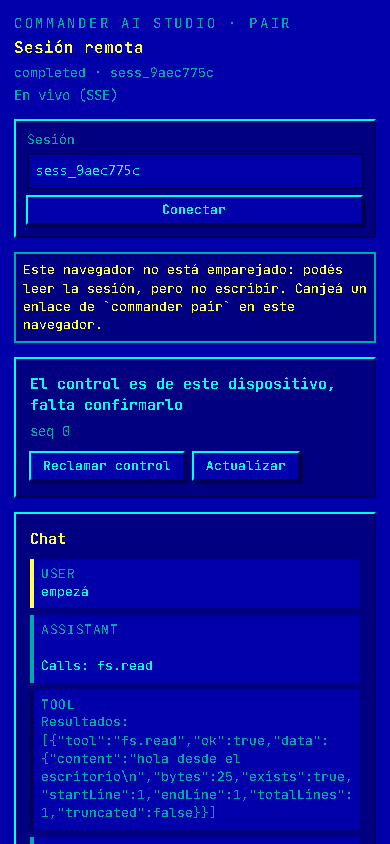
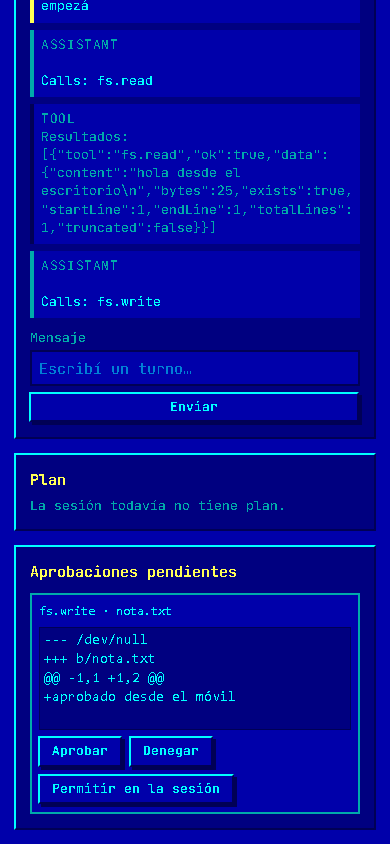
docs(parity): evidencia de C8 con la aprobacion del movil y F3 en 8/8
Se archiva la captura de esa corrida (10203 B, sha256 738c0b5d) y la seccion
14 del recibo G2 alinea F3 en 8/8 sin tocar la firma pendiente. El roadmap
marca F3-1 y F3-7 con la aprobacion que hace el movil.

diff --git a/docs/parity/receipts/G2-REVIEW-2026-11-25.md b/docs/parity/receipts/G2-REVIEW-2026-11-25.md
@@ -1,7 +1,7 @@
 # Revisión G2 — recorrido T1–T12 sobre el código del pair
 
 > **Fecha:** 2026-11-25 (preparación) · **2026-11-26** (recorrido completo)
-> **Estado:** recorrido completo, con **veredicto propuesto**; **sin firma**. G2 sigue **no iniciada** en el roadmap y F3 queda **parcial (6/8)**: las casillas que marca son las de §5, sostenidas por tests. Este recibo no firma la puerta y no habilita `--remote`.
+> **Estado:** recorrido completo, con **veredicto propuesto**; **sin firma**. G2 sigue **no iniciada** en el roadmap y F3 queda con sus **8/8** casillas: seis sostenidas por tests (§5) y las dos de C8 por la corrida de dos dispositivos y la vista a 390×844 de §14 (2026-11-27). Este recibo no firma la puerta y no habilita `--remote`.
 > **Insumo:** [modelo de amenazas remoto](../threat-model-remote.md) — §5 (T1–T12), §6 (controles y parámetros), §7 (invariantes → criterios de F3), §8 (los ocho criterios de G2) y §9 (decisiones abiertas).
 > **Qué cambió el 2026-11-26:** el pair ya existe en el árbol (§1.1 del modelo), así que las ocho preguntas de §8 se contestan con código y tests en vez de con «al implementar». Lo que sigue sin poder contestarse es la **mitad remota** —túnel, TLS, `--remote`—, que depende de G3 y de una segunda revisión cuando exista.
 
@@ -26,7 +26,7 @@
 - ⛔ **Humano** — no se puede firmar sin una decisión o una ejecución real (§8).
 - 🔒 **G3** — depende del proveedor de TLS/túnel (§9).
 
-**Alcance firmable hoy: loopback.** El canje exige `Origin` exacto contra una allowlist que hoy son los tres nombres de loopback con el puerto real más `CORS_ORIGINS` (`src/pair/pairOrigin.ts`, `pairAllowedOrigins`). Un teléfono en la LAN carga la página desde `http://192.168.x.x:<puerto>`, que no está en esa lista: el canje responde 403. Es coherente con el bloqueo deliberado de `--remote`, pero significa que la única topología ejercitable es **dos navegadores en la máquina host**, y que F3-1 (escritorio → móvil) no tiene evidencia real todavía.
+**Alcance firmable hoy: loopback.** El canje exige `Origin` exacto contra una allowlist que hoy son los tres nombres de loopback con el puerto real más `CORS_ORIGINS` (`src/pair/pairOrigin.ts`, `pairAllowedOrigins`). Un teléfono en la LAN carga la página desde `http://192.168.x.x:<puerto>`, que no está en esa lista: el canje responde 403. Es coherente con el bloqueo deliberado de `--remote`, pero significa que la única topología ejercitable es **dos navegadores en la máquina host**: así se mide F3-1 (escritorio → móvil) en §14, canjeando el enlace y aprobando desde el móvil, con el teléfono en la LAN fuera de alcance.
 
 ## 3. Recorrido T1–T12
 
@@ -109,7 +109,7 @@ La decisión vive en la sesión: `resolveApproval` aplica la pendiente una vez y
 
 `toState()` proyecta objetivo, `cwd`, modelo, modo, estado, turnos, pasos, plan, approvals pendientes, respuesta y propuestas: **no** incluye las claves de proveedor que la sesión guarda en memoria. El canje responde sólo `session.id/status/goal` y `device.id/createdAt/expiresAt`; ni el token del enlace ni el de la cookie vuelven al cliente. `redactApprovalValue` recorta claves y `Bearer` antes de mostrar o persistir una aprobación, y la redacción de F1 sigue en pie.
 
-**Falta:** un test que afirme que el token de pair y la cookie no aparecen en logs ni artifacts (criterio 8 de F3). Lo que el usuario mismo volcó en un turno sí viaja, y es el residual que el modelo ya declara.
+**Cubierto (C6):** `tests/pairAuditEndpoint.test.ts` afirma que ni el token del enlace ni la cookie aparecen en la auditoría, que es lo que el criterio 8 de F3 pedía. Lo que el usuario mismo volcó en un turno sí viaja, y es el residual que el modelo ya declara.
 
 ### T12 — Saturación · ⚠
 
@@ -153,9 +153,9 @@ Cada condición dice qué la cierra y qué evidencia la acredita.
 | C5 | Auditoría de emisión, canje y revocación de dispositivos, no sólo del lease; retención declarada | Implementación | Entrada presente al revocar un dispositivo que nunca reclamó el control |
 | C6 | Tests para lo que hoy es lectura: allowlist CORS, stream desde un peer no loopback sin cookie, y «el token no aparece en logs ni artifacts» | Implementación | Los tres casos en CI |
 | C7 | Aceptación escrita de los residuales A3 (QR capturado) y A5 (navegador comprometido), y decisión sobre cookie de 30 días, expulsión del más antiguo y tope de 200 entradas | Humano | Firma en este recibo |
-| C8 | F3-1 (escritorio → móvil) y F3-7 (390×844) siguen sin casilla hasta tener evidencia real de dos dispositivos y de la vista en ese ancho | Humano + ejecución | Recibo con los dos `sessionId`, `steps` comparados y la captura del ancho (§14) |
+| C8 | F3-1 (escritorio → móvil) y F3-7 (390×844) sólo se marcan con evidencia real de dos dispositivos y de la vista a ese ancho. **Cumplido el 2026-11-27:** el móvil emparejado aprueba el diff sobre `sess_cdeb8ccd`, 5 `steps` comparados y `scrollWidth ≤ 390` con la tarjeta a la vista (§14) | Humano + ejecución | Recibo con los dos `sessionId`, `steps` comparados y la captura del ancho (§14) |
 
-C1–C6 no cambian el veredicto: son las condiciones con las que el veredicto se sostiene. C7 es la firma. C8 es de F3, no de G2, y este recibo no la mueve.
+C1–C6 no cambian el veredicto: son las condiciones con las que el veredicto se sostiene. C7 es la firma. C8 es de F3, no de G2: la cierra la evidencia de §14, y marcarla no firma la puerta.
 
 ## 8. Lo que sólo puede firmar una revisión humana
 
@@ -182,12 +182,12 @@ Sin G3, todo lo anterior queda **sin verificar** por definición: el servidor no
 3. **Tamaño de evento:** §6.6 exige tope por evento; el código acota el body (20 MB), el texto del turno (20 000) y el buffer (1 000), no el frame que sale hacia cada cliente.
 4. **CORS sin test propio:** §6.3 pide allowlist sin comodín y `Vary: Origin`; se cumple, pero sólo hay lectura de código y la lista del pair reutiliza `CORS_ORIGINS`.
 5. **El pair sólo es usable desde loopback:** no es un defecto, es el bloqueo deliberado; conviene que F3 lo diga para que nadie lea «pair funciona» como «pair funciona desde el teléfono».
-6. **`ROADMAP.md` se actualizó con este recorrido:** F3 pasa a **parcial (6/8)** con las casillas de §5 y G2 sigue no iniciada. Quedan abiertas F3-1 y F3-7, que esperan la evidencia de C8; cerrar la fase y la puerta espera la firma de C7.
+6. **`ROADMAP.md` se actualizó con este recorrido:** F3 queda en **8/8**, con las casillas de §5 y con F3-1 y F3-7, que cerró la evidencia de C8 (§14, 2026-11-27). G2 sigue no iniciada y cerrar la fase y la puerta espera la firma de C7.
 
 ## 11. Lo que este recibo no es
 
 - **No es la firma:** propone un veredicto y lo deja explícitamente abierto.
-- **No cierra G2 ni F3:** G2 sigue no iniciada y F3 queda parcial; las casillas que el roadmap marca son las de §5 y ninguna cierra la fase.
+- **No cierra G2 ni F3:** G2 sigue no iniciada y F3, aunque ya tenga sus ocho casillas, no está cerrada: salen de §5 y de §14, y ninguna de las dos cosas cierra la fase.
 - **No probó LAN ni túnel:** no hay `--remote` y el canje rechaza el origen de un teléfono en la LAN; toda la mitad remota queda 🔒.
 - **No reemplaza los tests:** el recorrido cita las suites existentes; no las ejecutó como parte de este documento.
 - **«Leído» no es «probado»:** T3 y T11 se sostienen por lectura de código y ausencia de logger, y así quedan marcados.
@@ -221,24 +221,25 @@ Aplicado después del recorrido. Las secciones anteriores quedan como la foto de
 | C5 | `src/pair/pairAudit.ts`: JSONL con tope de 200 entradas para emisión, canje y baja, con el motivo del fallo y sin token ni cookie; `GET /api/pair/audit` se lee sólo desde loopback. | `tests/pairAuditEndpoint.test.ts` (las tres acciones, motivo `used`, baja inexistente y ausencia del token) |
 | C6 | Los tres tests que faltaban: allowlist de CORS, acceso al stream desde un peer que no es loopback y token fuera de auditoría y logs. | `tests/corsAllowlist.test.ts`, `tests/unit/pairStreamAccess.test.ts` y `tests/pairAuditEndpoint.test.ts` |
 
-Con esto F3 pasa de 4/8 a **6/8** (criterios 4 y 8); las casillas 1 y 7 siguen abiertas por C8, que no se puede inventar sin una corrida de dos dispositivos y una vista a 390×844. De las condiciones quedan C1, C2, C7 y C8, y G2 sigue **sin firma**: cerrar C3–C6 no sustituye la revisión humana.
+Con esto F3 sumó los criterios 4 y 8. Después, el 2026-11-27, la corrida de C8 y su captura cerraron F3-1 y F3-7 (§14) y F3 quedó en **8/8**. De las condiciones siguen abiertas C1, C2 y C7, y G2 sigue **sin firma**: ni las casillas ni C3–C6 sustituyen la revisión humana.
 
 ## 14. Evidencia de C8 · dos dispositivos y la vista a 390×844 (2026-11-27)
 
-Ejecutada después del cierre de C3–C6. Es la corrida que C8 pedía: dos dispositivos
-sobre la misma sesión y la vista a 390×844. **No mueve el veredicto ni marca
-casillas**: la firma de C7/C8 sigue siendo humana (§8), pero la evidencia ya existe
-y queda archivada en el repo.
+Ejecutada después del cierre de C3–C6 y regenerada el 2026-11-27 con la aprobación real: dos dispositivos
+sobre la misma sesión, el móvil aprobando el diff y la vista a 390×844 con la tarjeta a la
+vista. Las casillas F3-1 y F3-7 están marcadas en el ROADMAP con esta corrida; la firma
+de G2 (C7) sigue siendo humana y este recibo no la sustituye.
 
 | Dato | Valor |
 | --- | --- |
-| `sessionId` · escritorio (1280×800) | `sess_9aec775c` |
-| `sessionId` · móvil (390×844) | `sess_9aec775c` |
+| `sessionId` · escritorio (1280×800) | `sess_cdeb8ccd` |
+| `sessionId` · móvil (390×844) | `sess_cdeb8ccd` |
 | Igualdad de los dos | el spec exige que coincidan entre sí y con el del servidor (`expect(desktopId).toBe(mobileId)` y ambos contra `created.id`): un id distinto en el móvil rompe el caso |
-| `steps` comparados | **4**, iguales en servidor, escritorio y móvil |
-| Captura | [`evidence/f3-c8-pair-session-390x844.png`](../evidence/f3-c8-pair-session-390x844.png) · 390×844 · 11 229 B |
[1 lines of base64/hex data omitted]
-| Prueba | `tests/e2e/pairTwoDevices.spec.ts` (caso de C8: imprime los dos `sessionId` y la secuencia de `steps`, y adjunta `c8-steps` al reporte) |
+| `steps` comparados | **5**, iguales en servidor, escritorio y móvil, con un solo `tool_result` de `fs.write` |
+| Aprobación | el móvil canjea un enlace real (`/api/pair/issue` → `/api/pair/redeem`), reclama el control (`POST /api/pair/lease`) y pulsa «Aprobar»; el servidor aplica `fs.write` y `nota.txt` queda en disco con el contenido aprobado |
+| Captura | [`evidence/f3-c8-pair-session-390x844.png`](../evidence/f3-c8-pair-session-390x844.png) · 390×844 · 10 203 B |
[1 lines of base64/hex data omitted]
+| Prueba | `tests/e2e/pairTwoDevices.spec.ts` (caso de C8: pareja el móvil, inicia el turno desde el host, aprueba desde el móvil, comprueba la escritura en disco, imprime los dos `sessionId` y adjunta `c8-steps` al reporte) |
 | Plataforma | win32-x64 · Chromium (Playwright) |
 
 La captura **vive en el repo**, no en `test-results/`: ese directorio lo reescribe
@@ -247,22 +248,23 @@ evidencia; `docs/parity/evidence/` guarda la del run documentado, con su hash y 
 tamaño. Re-archivar otra corrida es copiar el PNG nuevo y actualizar esta tabla con
 sus `sessionId`, su hash y su fecha.
 
-Los cuatro `steps`, en el orden en que el spec los compara (la secuencia es
+Los cinco `steps`, en el orden en que el spec los compara (son
 los de la misma corrida que la captura: el spec los imprime y los adjunta al reporte):
 
 | # | `type` | `title` | `toolId` |
 | --- | --- | --- | --- |
 | 1 | `thought` | Inicio | — |
 | 2 | `tool_result` | `fs.read` | `fs.read` |
-| 3 | `thought` | Razonamiento | — |
-| 4 | `thought` | Finalizado | — |
+| 3 | `tool_result` | `fs.write` (aprobado desde el móvil) | `fs.write` |
+| 4 | `thought` | Razonamiento | — |
+| 5 | `thought` | Finalizado | — |
 
 ```bash
 npx playwright test tests/e2e/pairTwoDevices.spec.ts --project=chromium
 
 # Dentro de la suite, con el comando del job e2e del CI:
 CI=1 npx playwright test --grep-invert "Artifacts de verificación · productor real" --project=chromium
-# → 31 passed, 1 skipped; el caso de C8 en verde (1,6 s)
+# → 31 passed, 1 skipped; el caso de C8 en verde (2,4 s)
 ```
 
 Qué comprueba, y qué no:
@@ -272,15 +274,22 @@ Qué comprueba, y qué no:
   muestran el mismo `sessionId` y cada una lee el estado con su propio `fetch`
   (mismo origen, sin proxy).
 - Los `steps` de las dos vistas se comparan con los del servidor: contenido, orden
-  y longitud. Los turnos pintados en cada pantalla también coinciden.
+  y longitud, y hay exactamente un `tool_result` de `fs.write`. Los turnos pintados
+  en cada pantalla también coinciden.
 - La captura se toma a 390×844 y se valida leyendo la cabecera IHDR del PNG, no el
   viewport declarado; además se exige `scrollWidth ≤ 390`, o sea la vista sin
   desborde a ese ancho.
 - En `firefox` y `mobile-chrome` el caso se saltea a propósito: los dos anchos son
   explícitos, así que el proyecto sólo aportaría el motor.
-- **No** cubre el control cruzado del lease (reclamar desde el móvil), ni la LAN, ni
+- El **escritorio no aprueba**: ve la tarjeta con el diff y los tres botones
+  deshabilitados (`toBeDisabled`), porque el control lo tiene el móvil. La decisión la
+  toma el móvil y el escritorio sólo refleja el resultado, sin repetir pasos.
+- La captura muestra la tarjeta de `fs.write` con el diff de `nota.txt` y «Aprobar»,
+  «Denegar» y «Permitir en la sesión» habilitados, a 390 de ancho: es la vista que
+  F3-7 pide, tomada antes de decidir.
+- **No** cubre la LAN, ni
   el túnel: el pair sigue siendo de loopback, y esa mitad sigue donde §9 la deja.
-- La captura, los dos `sessionId` y los cuatro `steps` salen de la misma corrida:
+- La captura, los dos `sessionId`, la aprobación y los cinco `steps` salen de la misma corrida:
   el spec imprime los ids y la secuencia, y adjunta `c8-steps` al reporte. Una
   corrida nueva emite otro `sessionId`, así que re-archivar exige repetir las tres
   cosas juntas: id, secuencia y PNG.

diff --git a/ROADMAP.md b/ROADMAP.md
@@ -107,18 +107,18 @@ Plan, diff, evidencia de tests, informe local, visor, revisión por hunk con aud
 
 Continuar la misma sesión desde el móvil o el navegador con la misma política de aprobación, sin convertir a Commander en una nube. Requisito previo: el modelo de amenazas remoto ([`docs/parity/threat-model-remote.md`](docs/parity/threat-model-remote.md)), **versionado, recorrido y con veredicto propuesto en [`receipts/G2-REVIEW-2026-11-25.md`](docs/parity/receipts/G2-REVIEW-2026-11-25.md), todavía sin firma**. Cubre T1–T12 con sus controles en §6 y una tabla de invariantes (§7) que mapea cada uno a uno de los ocho criterios de abajo. `--remote` no se habilita en una release hasta que esa revisión se firme.
 
-**Estado (2026-11-26).** El tramo local del pair está en el árbol y probado: enlace de un solo uso (256 bits, 5 min), cookie de dispositivo con revocación, `commander pair --devices/--revoke`, lease de un solo escritor con traspaso por `ack`, `/pair/session` por SSE reanudable con tope por frame, rate limit, cupo de streams vivos y auditoría de emisión, canje y baja (`src/pair/`, `src/agent/sessionStream.ts`; commits `905710b…d1b8eaa` más el cierre de C3–C6). Funciona **sólo en loopback**: el canje exige un `Origin` de la allowlist, así que un teléfono en la LAN recibe 403 y `--remote` no existe. La continuidad de superficie ya está medida (C8, [§14 del recibo G2](docs/parity/receipts/G2-REVIEW-2026-11-25.md)): dos navegadores del host sobre `sess_9aec775c` ven los mismos 4 `steps` y la vista a 390×844 no desborda. El recorrido amenaza por amenaza vive en el [recibo G2](docs/parity/receipts/G2-REVIEW-2026-11-25.md); acá quedan sólo las casillas.
+**Estado (2026-11-26).** El tramo local del pair está en el árbol y probado: enlace de un solo uso (256 bits, 5 min), cookie de dispositivo con revocación, `commander pair --devices/--revoke`, lease de un solo escritor con traspaso por `ack`, `/pair/session` por SSE reanudable con tope por frame, rate limit, cupo de streams vivos y auditoría de emisión, canje y baja (`src/pair/`, `src/agent/sessionStream.ts`; commits `905710b…d1b8eaa` más el cierre de C3–C6). Funciona **sólo en loopback**: el canje exige un `Origin` de la allowlist, así que un teléfono en la LAN recibe 403 y `--remote` no existe. La continuidad de superficie ya está medida (C8, [§14 del recibo G2](docs/parity/receipts/G2-REVIEW-2026-11-25.md)): el móvil emparejado aprueba un diff sobre `sess_cdeb8ccd`, el escritorio ve los mismos 5 `steps` sin duplicarlos y la vista a 390×844 muestra las decisiones sin desbordar. El recorrido amenaza por amenaza vive en el [recibo G2](docs/parity/receipts/G2-REVIEW-2026-11-25.md); acá quedan sólo las casillas.
 
-- [x] Se inicia una tarea en escritorio, se empareja el móvil, se ve la misma sesión y se aprueba un diff; el escritorio refleja la aprobación sin duplicar pasos. — Recibo G2 §14: dos contextos (1280×800 y 390×844) sobre `sess_9aec775c`, con los mismos 4 `steps` comparados contra el servidor (`tests/e2e/pairTwoDevices.spec.ts`); la aprobación que no se duplica la cubren `tests/pairLease.test.ts` y `tests/agent/approvalChannel.test.ts` (la corrida de C8 no pulsa approve).
+- [x] Se inicia una tarea en escritorio, se empareja el móvil, se ve la misma sesión y se aprueba un diff; el escritorio refleja la aprobación sin duplicar pasos. — Recibo G2 §14: el host inicia el turno, el móvil canjea su enlace, reclama el control y pulsa «Aprobar» sobre el diff de `nota.txt`; el servidor aplica la escritura (el archivo queda en disco), el escritorio ve los mismos 5 `steps` y hay un solo `tool_result` de `fs.write` (`tests/e2e/pairTwoDevices.spec.ts`).
 - [x] El enlace caduca a los 5 minutos, no se puede reutilizar y un `Origin` ajeno recibe 403. — `tests/pairTokens.test.ts`, `tests/pairExpiryEndpoint.test.ts`, `tests/pairEndpoints.test.ts`, `tests/pairOrigin.test.ts`.
 - [x] El servidor escucha sólo loopback por defecto; sin `--remote`/túnel explícito no hay puerto público. — `src/lib/bindHost.ts`, `tests/unit/bindHost.test.ts`, `tests/pairEndpoints.test.ts`.
 - [x] Revocar un dispositivo invalida su cookie y queda registrado en la auditoría. — `tests/pairDevice.test.ts` (la cookie muere en el request siguiente) y `tests/pairAuditEndpoint.test.ts` (entrada `revoked` con el `deviceId`).
 - [x] Dos clientes no pueden escribir a la vez; el traspaso de control se prueba y no se pierden eventos. — `tests/pairLease.test.ts`, `tests/pairSessionStreamEndpoint.test.ts`.
 - [x] Tras una caída de red, el cliente se reconecta, recupera el estado y no repite una aprobación ya aplicada. — `tests/unit/pairSessionStream.test.ts`, `tests/pairSessionStreamEndpoint.test.ts`, `tests/agent/approvalChannel.test.ts`.
-- [x] La vista de 390×844 no tiene scroll horizontal y permite aprobar/denegar con el diff visible. — Recibo G2 §14: `scrollWidth ≤ 390` medido en el spec y captura versionada de esa misma corrida ([`evidence/f3-c8-pair-session-390x844.png`](docs/parity/evidence/f3-c8-pair-session-390x844.png)); aprobar/denegar usa el mismo cliente que el escritorio (`tests/agent/approvalChannel.test.ts`), sin captura propia a ese ancho.
+- [x] La vista de 390×844 no tiene scroll horizontal y permite aprobar/denegar con el diff visible. — Recibo G2 §14: la captura de esa corrida muestra el diff de `nota.txt` con «Aprobar», «Denegar» y «Permitir en la sesión» habilitados a ese ancho, y el spec exige `scrollWidth ≤ 390` ([`evidence/f3-c8-pair-session-390x844.png`](docs/parity/evidence/f3-c8-pair-session-390x844.png)).
 - [x] Ningún token de emparejamiento, cookie o secreto aparece en la URL, logs o artifacts. — El token viaja sólo en el fragmento (no llega al servidor) y `tests/pairAuditEndpoint.test.ts` comprueba que ni el token ni la cookie aparecen en la auditoría ni en los logs del server.
 
-**Qué falta para G2.** El recorrido T1–T12 está hecho y propone **pasa con condiciones, limitado a loopback**. Faltan la firma humana (residuales A3/A5 y parámetros abiertos), las condiciones C1, C2 y C7 —la evidencia de C8 ya está en §14 del recibo: dos dispositivos sobre `sess_9aec775c`, 4 `steps` comparados y la captura a 390×844— y el proveedor TLS de G3. Sin firma no se publica `--remote`: los ocho criterios marcados no cierran la fase.
+**Qué falta para G2.** El recorrido T1–T12 está hecho y propone **pasa con condiciones, limitado a loopback**. Faltan la firma humana (residuales A3/A5 y parámetros abiertos), las condiciones C1, C2 y C7 —la evidencia de C8 ya está en §14 del recibo: el móvil aprueba el diff sobre `sess_cdeb8ccd`, 5 `steps` iguales en las dos vistas y la captura a 390×844 con las decisiones— y el proveedor TLS de G3. Sin firma no se publica `--remote`: los ocho criterios marcados no cierran la fase.
 
 ### F4 · Editor y ecosistema — Parcial · 6/11 · P1 · 12–15 d
 
